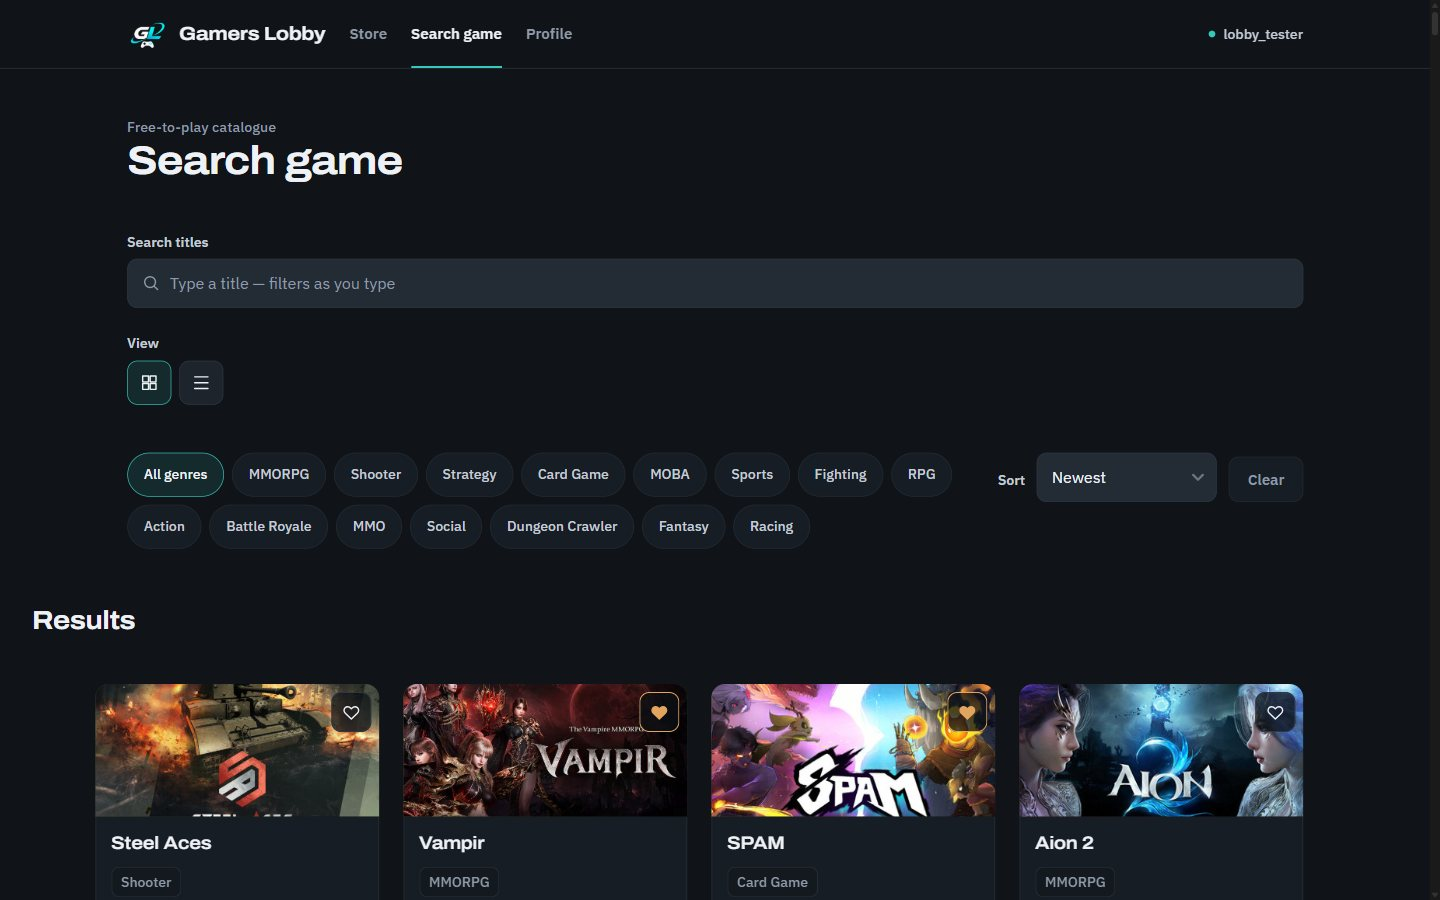
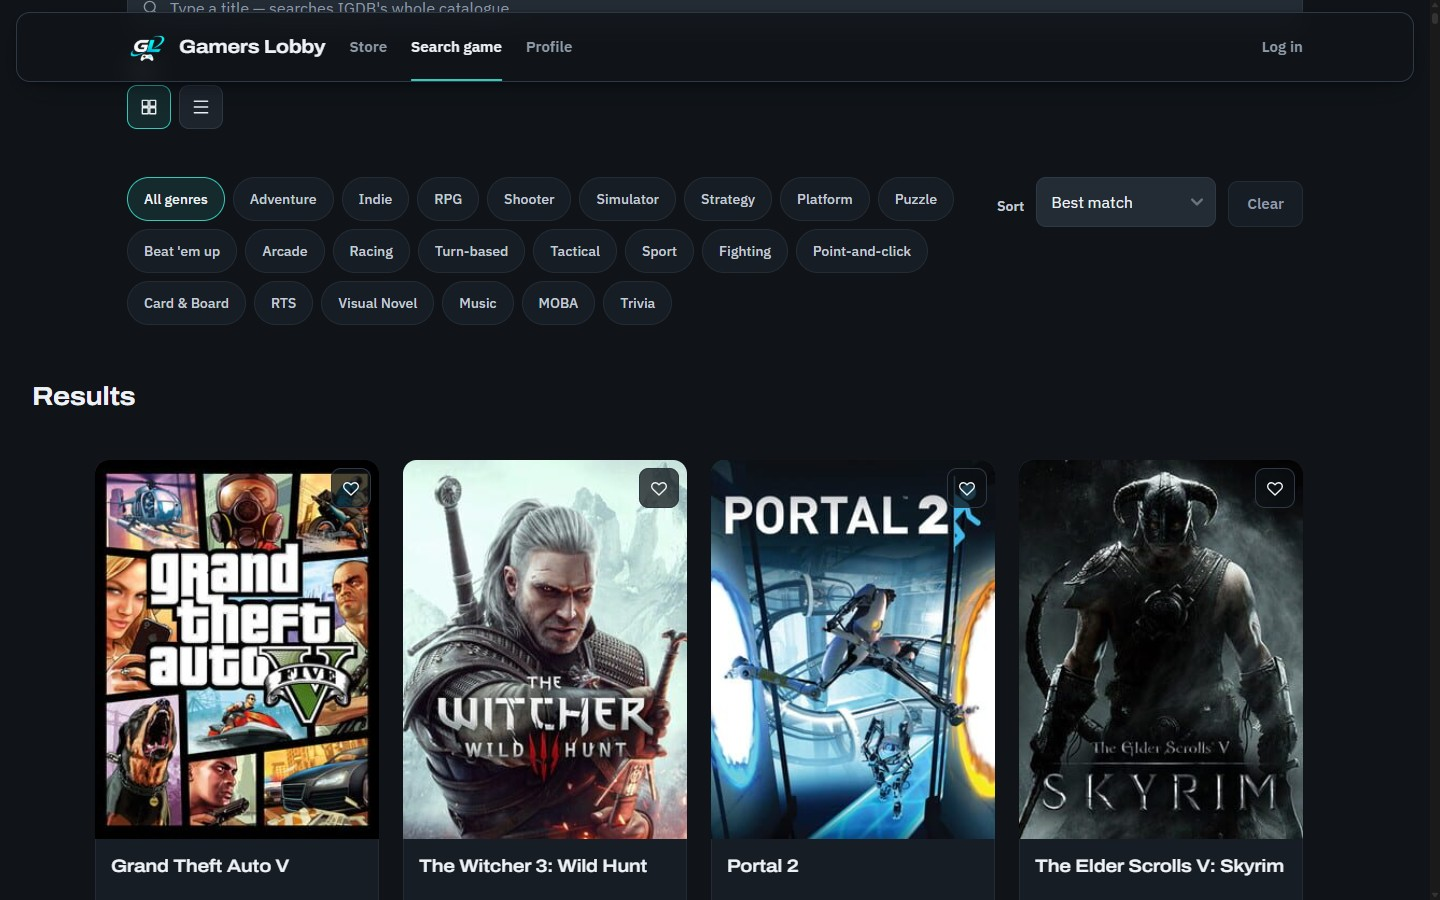
portfolio: five shots of the IGDB storefront, and the notes that go with them
Store, Search game, the Grand Theft Auto VI page, its recommendation rails and the
sign-in screen, all 1440x900. The notes record what the catalogue measurements came
back with: 986 of the 1000 rows on the shelf carry a 3:4 cover and none a 16:9 one,
and IGDB's image host answers only its named presets, so a wide card cannot be cut
from a cover.

diff --git a/PORTFOLIO.md b/PORTFOLIO.md
@@ -1,7 +1,7 @@
 ---
 name: GamersLobby
-subtitle: A storefront for the free-to-play catalogue, with favourites and a playtime log
-description: A React and Express storefront over the free-to-play game catalogue: search and filter titles, keep favourites on the account and log the hours played per title.
+subtitle: A storefront over the IGDB game catalogue, with search, favourites and a playtime log
+description: A React and Express storefront over the IGDB game catalogue: search any of its 388,273 titles, keep favourites on the account and log the hours played per title.
 category: Web platform
 stack:
   - React
@@ -11,6 +11,7 @@ stack:
   - Mongoose
   - Tailwind CSS
   - JWT
+  - IGDB API
   - Render
   - Vercel
 status: live
@@ -20,6 +21,7 @@ cover: docs/portfolio/gamerslobby-store.jpg
 gallery:
   - docs/portfolio/gamerslobby-search.jpg
   - docs/portfolio/gamerslobby-title.jpg
+  - docs/portfolio/gamerslobby-rails.jpg
   - docs/portfolio/gamerslobby-profile.jpg
 live: https://gamerslobby.vercel.app
 tags:
@@ -33,20 +35,24 @@ updated: 2026-11-24
 
 ## Overview
 
-GamersLobby is a store view over the free-to-play game catalogue. Three screens carry it: a Store
-with a featured carousel and genre rails, Search game with a filter bar and a grid or list view, and
-a profile that holds the titles you hearted and the hours you logged.
+GamersLobby is a store view over IGDB's game catalogue. Three screens carry it: a Store with a featured
+carousel and genre rails, Search game with a filter bar and a grid or list view, and a profile that
+holds the titles you hearted and the hours you logged. The Store shows the shelf IGDB's members rated
+most; a typed title is searched at IGDB itself, so all 388,273 records are reachable, not only the
+thousand on the shelf.
 
-Everything on screen comes from data the app actually holds. The catalogue is served by the backend
-from freetogame.com; the per-title page adds the long description, the screenshots and the minimum
-system requirements from the same source. There is no price, no review score and no player count
-anywhere in the interface, because the feed publishes none.
+Everything on screen comes from IGDB: the list, the per-title description, the screenshots and both
+scores. IGDB publishes no price and no player count, so the interface shows neither — the numeral on
+a card is the score its members gave.
 
 ## Problem
 
 The first version was a MERN demo that showed a list of games and nothing you could do with them.
 The interesting parts were missing: a session that survives a reload, favourites that live on the
 account instead of in the page, and a way to keep track of what you actually played.
+
+The catalogue also has to come from somewhere a personal project may use for free, and the client
+secret for that source cannot live in the browser.
 
 ## Solution
 
@@ -55,34 +61,54 @@ The frontend is Create React App with TypeScript and Tailwind, and one hand-writ
 properties — colour ramp, type scale, spacing, radii, durations and breakpoints are tokens, not
 per-component decisions.
 
-The backend is Express with Mongoose: `/register`, `/login`, `/user/:id`, `/userUpdate`,
-`/favorite` and `/rmfavorite`. Login answers with a JWT and an httpOnly cookie; the page keeps the
-token in `localStorage` and decodes it to restore the session, because the cookie cannot be read
-back from JavaScript.
+The backend is Express with Mongoose: `/register`, `/login`, `/user/:id`, `/userUpdate`, `/favorite`
+and `/rmfavorite`. Login answers with a JWT and an httpOnly cookie; the page keeps the token in
+`localStorage` and decodes it to restore the session, because the cookie cannot be read back from
+JavaScript.
 
 Playtime is stored per browser under a key namespaced by the signed-in user id. The user record has
 no playtime column yet, so this is a deliberate local store rather than a fake server field.
 
 ## Key features
 
-- Featured carousel with keyboard arrows, dots, auto-advance, and a reduced-motion path
+- Featured carousel with keyboard arrows, dots, auto-advance, and a reduced-motion path; the three it features are not repeated in the rails below
+- The navigation bar floats off the page edges, and its one underline slides from the tab you were on to the one you picked
+- Debounced search sent to IGDB's own full-text index, so a title outside the loaded shelf is found
 - Filter bar with genre chips derived from the fetched catalogue, plus newest / oldest / A–Z sorting
 - Grid and list views over the same filtered result
+- Every card is the same shape: a 3:4 cover shown whole, two title lines, a fixed-height genre strip
 - Favourites saved on the account and restored after a reload
 - Hours logged per title with `+1 h` and `+5 h` buttons
-- Screenshots open in a lightbox that closes on an outside click, Escape or its own button
+- The title page is two columns: the trailers and every screenshot on the left, a card on the right with the cover, the short description, the release date, the developer and the publisher
+- The title page waits for the media and shows a shimmering skeleton until the screenshots and trailers arrive
+- Arrow keys move the media carousel, both on the plate and inside the full-size view
+- Favourites and the hours log require a signed-in account; a visitor gets the way in instead of controls that would silently do nothing
+- Related titles come from IGDB's own `similar_games` list and from a query for the same developer's other games
+- The opened image fills 90% of the viewport and closes on an outside click, Escape or its own button
+- The screen lives in the URL hash, so the browser's back and forward work and each screen starts at its top
 - The whole card opens a title; the heart sits in a higher layer and keeps its own click
 - Profile editor with gamertag and bio validation
 
 ## Architecture
 
-`frontend/` builds to a static bundle on Vercel. `backend/` is TypeScript compiled with `tsc` and
-run by Node on Render; `GET /api/games` fetches the catalogue from freetogame.com and returns it as
+`frontend/` builds to a static bundle on Vercel. `backend/` is TypeScript compiled with `tsc` and run
+by Node on Render. IGDB authenticates with a Twitch application token: the backend asks
+`id.twitch.tv/oauth2/token` once, caches the token in memory for its ~56-day life, and refetches it
+if IGDB answers 401.
+
+`GET /api/games` runs two Apalypse queries against `api.igdb.com/v4/games` and returns them as
 `{ popular, latestReleases }`, which the frontend de-duplicates by id into one list.
+`GET /api/search?q=` sends one `search` query to the same endpoint and returns up to 100 matches.
+`GET /api/game/:id` adds the long description, the critic score, the media — the cover, every
+screenshot and the trailers, which IGDB carries as YouTube ids, each with a strip thumbnail and a
+1920-wide plate version — and the two related lists, IGDB's `similar_games` expanded into full cards
+plus a second query for the same developer's other titles. The plain `GET /games/:id` endpoint does not
+expand those relations, so this goes through the query endpoint. IGDB's `artworks` array is not asked
+for: it holds key art, wallpapers, box art and the title's logo in one list, separated only by an
+`image_type` reference.
 
 Locally the frontend calls `/api/games` relative and CRA's dev proxy forwards it, because the
-deployed API's CORS allowlist answers only to `gamerslobby.vercel.app`. The per-title details call
-goes to freetogame.com directly — that endpoint answers any origin.
+deployed API's CORS allowlist answers only to `gamerslobby.vercel.app`.
 
 `GET /health` exists so the free Render instance can be kept awake: a free web service spins down
 after 15 minutes without inbound traffic, and the next visitor pays about a minute of wake. The
@@ -90,18 +116,33 @@ service asks its own public `/health` every four minutes.
 
 ## Challenges
 
-The catalogue's list endpoint serves ten fields and nothing else, so every number the earlier
-interface displayed had to go rather than be invented. Genre chips were rebuilt from the fetched
-data because the hardcoded list could not filter ten of the genres the feed actually uses.
+IGDB has no popularity feed and no free-to-play flag, and a query caps at 500 rows, so the shelf is
+built from what its members actually rated: the 500 titles with the most ratings, plus the 500 released
+in the last 400 days that carry at least one. Sorting by the mean score alone instead surfaces obscure
+titles sitting on two perfect votes. The first cut filtered the shelf to PC, which hid Grand Theft Auto
+VI — IGDB catalogues it as Xbox Series X|S and PlayStation 5 only — so the platform filter is gone and
+every card shows the platforms the entry really has. IGDB also carries entries dated 2030 to 2040, so
+the recent rail needs a ceiling at today's date. A search for one title returns its deluxe edition, its
+Game-of-the-Year pack and its add-on mode as separate games: IGDB's own `category` field is empty on
+all 388,273 records and `version_parent` covers only 8,120 of them, so the duplicates are collapsed by
+comparing the returned titles against each other instead of trusting a flag. Card art is 3:4 because the
+covers are: 986 of the 1,000 rows on the shelf carry a 3:4 cover and none a 16:9 one, and IGDB's image host
+answers only its named presets — a request for an arbitrary crop (`c_fill,h_450,w_800`) comes back 404 — so a
+wide card cannot be cut from a cover. 81 of those same 100 titles do carry a 16:9 screenshot, which is the
+only dynamic route to a 16:9 card and would widen the shelf request from 157 KB to 267 KB per 100 titles.
 
-On the interface side the fixes were mostly measurement: a rail that overflowed its column instead
-of scrolling, a focus ring clipped by the rail's own overflow box, a profile header whose content
-was taller than its padding box, and a featured panel that changed shape per slide because its
-release date wrapped only for some titles.
+On the interface side the fixes were mostly measurement: a rail that overflowed its column instead of
+scrolling, a focus ring clipped by the rail's own overflow box, a profile header whose content was
+taller than its padding box, a featured panel that changed shape per slide because its release date
+wrapped only for some titles, and a featured plate that resized per slide (548 → 614 → 519 px at 1280)
+until the panel was given one fixed height and its genre row a fixed box — 720 × 420 px on every slide
+now. Ordering the catalogue by
+newest instead of by member votes also put one-vote releases on the front page, so the shelf keeps the
+order its members rated and Newest stays a sort you pick.
 
 ## Future
 
-Playtime moves to the user record when the backend gains the column. The per-title details are a
-candidate for a backend route so the browser talks to one origin. The JWT is signed but not verified
-on the account routes — that is the known gap, and it is the first thing to close before this is
-anything other than a personal project.
+Playtime moves to the user record when the backend gains the column. The JWT is signed but not
+verified on the account routes — that is the known gap, and it is the first thing to close before
+this is anything other than a personal project. IGDB allows 4 requests per second, so a real cache
+of the catalogue on the backend is the next thing worth building.

diff --git a/README.md b/README.md
@@ -1,21 +1,25 @@
 # GamersLobby
 
-A storefront for the free-to-play game catalogue: browse it, heart what you want to play, log the
-hours you spent on each title.
+A storefront over IGDB's game catalogue: browse what its members rated most, search any of its
+388,273 titles, heart what you want to play, log the hours you spent on each one.
 
 Live app: <https://gamerslobby.vercel.app> · API: <https://gamerslobby-api.onrender.com> · health: <https://gamerslobby-api.onrender.com/health>
 
-The catalogue comes from [freetogame.com](https://www.freetogame.com/api-doc). The backend re-serves
-it so the browser talks to one origin.
+The catalogue comes from [IGDB](https://api-docs.igdb.com/), authenticated with a Twitch app token.
+The backend re-serves it so the browser talks to one origin and never sees the client secret.
+IGDB is free for non-commercial use and allows 4 requests per second.
 
 ## Screens
 
 | | |
 |---|---|
-| Store | featured carousel, genre rails |
-| Search game | filter chips, sorting, grid or list view |
-| Title | description, screenshots (lightbox), minimum requirements, hours control |
+| Store | featured carousel, genre rails; the three featured titles are not repeated in the rails below them |
+| Search game | filter chips, sorting, grid or list view; a typed title is searched at IGDB |
+| Title | name on top; left: a 16:9 media plate with the trailers and every screenshot scrolling under it, arrow keys move it; right: a card the same height as the media, with the cover, the short description, the release date, the developer, the publisher, both scores, favourites and hours; below: the long description, IGDB's similar titles and the rest of that developer's catalogue. The page waits for the media before it draws anything |
 | Profile | favourites on the account, hours logged, gamertag and bio editor |
+
+The screen you are on is written into the URL hash (`#/game/52189`), so the browser's back and
+forward work and a new screen starts at its top.
 
 ## Layout
 
@@ -44,19 +48,41 @@ Frontend on `http://localhost:3000`, backend on `http://localhost:3001` (`PORT` 
 `/api/games` relative and CRA's dev proxy (`frontend/package.json`) forwards them to the deployed
 API, whose CORS allowlist answers only to `gamerslobby.vercel.app` and refuses `localhost`.
 
-The backend needs `MONGODB_LINK` (a MongoDB connection string). Without it the server still starts
-and still serves `/api/games`, but the account routes have nowhere to write.
+The backend needs `IGDB_CLIENT_ID` and `IGDB_CLIENT_SECRET` — a confidential application registered on
+[dev.twitch.tv](https://dev.twitch.tv/console/apps/create), which is how IGDB authenticates — and
+`MONGODB_LINK` (a MongoDB connection string). Without the first two the catalogue routes answer 500;
+without the third the server still starts and still serves the catalogue, but the account routes have
+nowhere to write.
 
 ## Routes
 
 `POST /register` · `POST /login` · `GET /user/:userId` · `PUT /userUpdate` · `DELETE /deleteUser/:userId` ·
-`GET /api/games` · `POST /favorite` · `DELETE /rmfavorite` · `GET /health`
+`GET /api/games` · `GET /api/search?q=` · `GET /api/game/:id` · `POST /favorite` · `DELETE /rmfavorite` · `GET /health`
+
+`/api/games` is the shelf: IGDB's 500 most-rated titles plus its 500 releases from the last 400 days.
+Everything else in the 388,273-record catalogue comes back through `/api/search`, which runs IGDB's
+own full-text query. IGDB has no popularity feed and `limit` caps at 500, so the shelf cannot be bigger.
+
+The app keeps the shelf in the order its members rated most, so the Store's featured three and the
+front rails are the titles with the most votes. Sorting by newest instead put the freshest uploads on
+the front page, and IGDB's freshest uploads are mostly titles with one vote. Newest is a sort you can
+pick, not the default.
+
+IGDB stores a title's deluxe editions, GOTY packs and add-on modes as separate game records and marks
+them inconsistently, so both routes collapse near-duplicates: a row whose title is another row's title
+plus a `:` or `-` suffix is dropped, and the one members rated most survives. Nothing is hardcoded —
+it reads only the titles the API returned. `/api/game/:id` runs the same rule against the title you are
+looking at, so its two recommendation rails drop that title's own editions and its duplicate records.
 
 Login answers with a JWT and an httpOnly cookie. The page also keeps the token in `localStorage` and
 decodes it to restore the session, because the cookie cannot be read back from JavaScript.
 
 Playtime lives in the browser, under a key namespaced by the signed-in user id — the user record has
 no playtime column yet.
+
+Favourites and the hours log need a signed-in account. The bar's top right shows the gamertag when
+you are in and a **Log in** button when you are not, and the title page swaps its favourite button and
+hours control for the way in rather than giving a visitor controls that would silently do nothing.
 
 ## Keeping the backend awake
 
